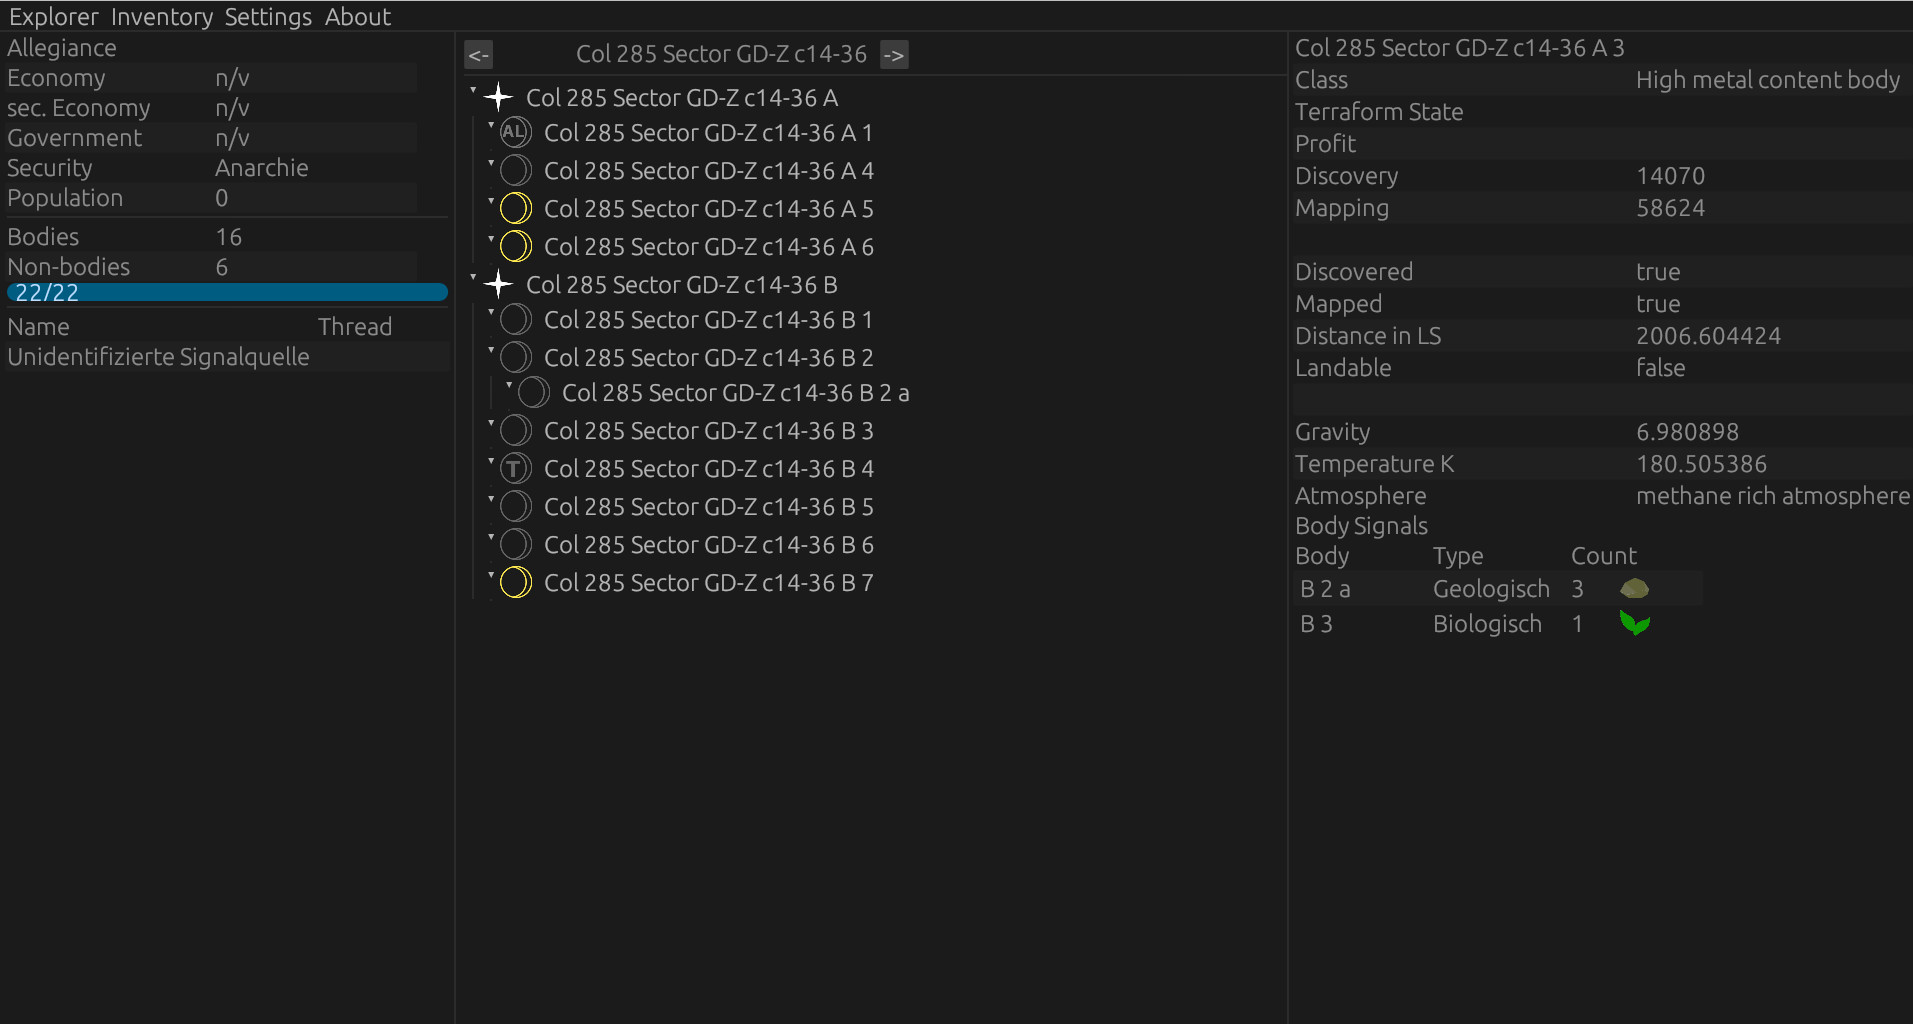
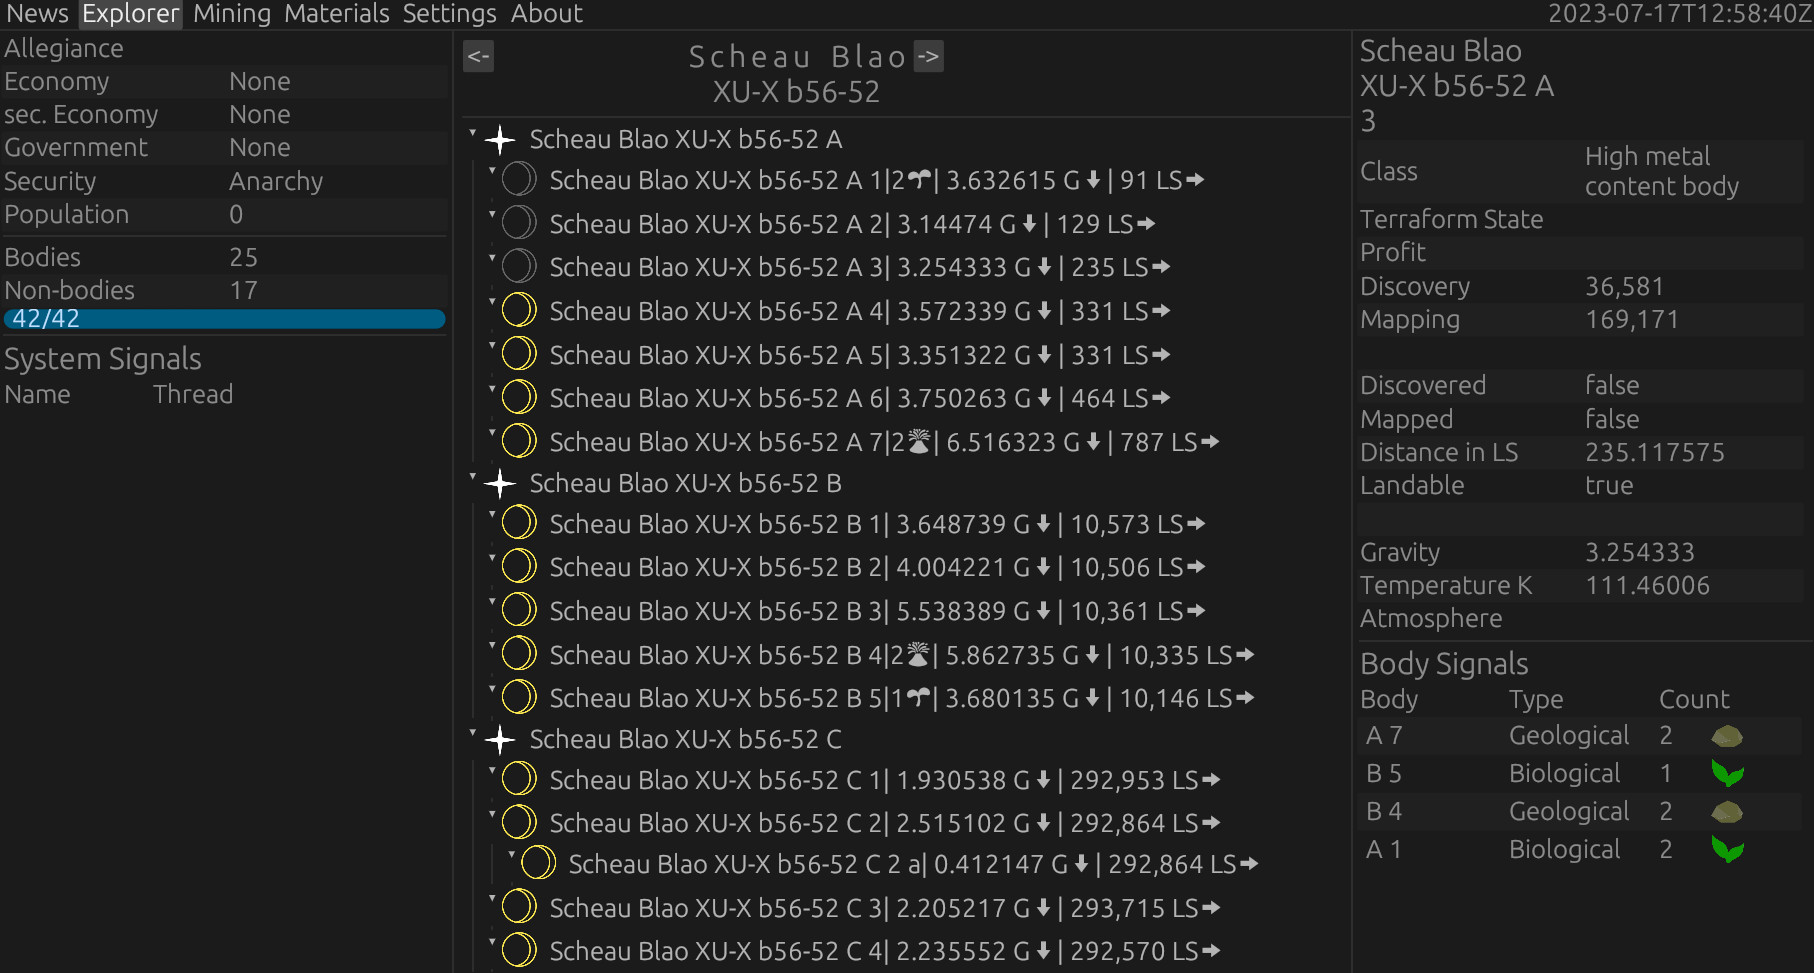
Updated to 0.2.0

diff --git a/README.md b/README.md
@@ -3,16 +3,28 @@
 
 Shows system information compact for explorer.
 
+<div style="text-align: center;"><h2>Gotta see all those planets!</h2></div>
+
 ![Screenshot of explorer panel](graphics/screenshots/explorer-screenshot.jpg "Explorer Panel")
-![Screenshot of miner panel](graphics/screenshots/miner-screenshot.jpg "Miner Panel")
+
+<div style="text-align: center;"><h2>Track your materials!</h2></div>
+
 ![Screenshot of materials panel](graphics/screenshots/materials-screenshot.jpg "Materials Panel")
+
+<div style="text-align: center;"><h2>Customize your panel!</h2></div>
+
+![Screenshot of settings panel](graphics/screenshots/settings-screenshot.jpg "Settings Panel")
+
+<div style="text-align: center;"><h2>And much more!</h2></div>
 
 ## Features
 
 * System and its data represented in a compact view
-* List signals found in system to find Raxxla ASAP.
+* List signals found in system to find Raxxla ASAP
 * Get help mining by showing relevant data
 * Keep track of your materials
+* Apply graphic override configurations (with presets or your own!)
+* Always keep track of what the feds are doing in the news tab
 * Written in rust so you know its good
 
 ## Build Requirements
@@ -68,22 +80,6 @@ and add this to your processes:
         }
     ],
 ```
-
-## Planned Features
-
-### News page [Done]
-### Accounts [In progress]
-Accounts based on the <a href=https://www.iota.org/ >IOTA Protocol<a/>
-### Fetching already known systems from remote db
-### Inventory & Material management
-Idea: Showing Inventory cargo prices with history and galactic average and highest price.
-Material should have colors where green is full, red is empty and yellow-ish is in between.
-### Material Tracker
-Idea: Pick a modification and the tool tracks the missing materials and list them for you.
-Best case would be a description where you can get them
-### Fuel Warning
-Idea: Play sound or spoken text if you jump and fuel is low after jump
-### (EDDN Adapter)
 
 
 ## Suggestions, Ideas & Bug Reports
